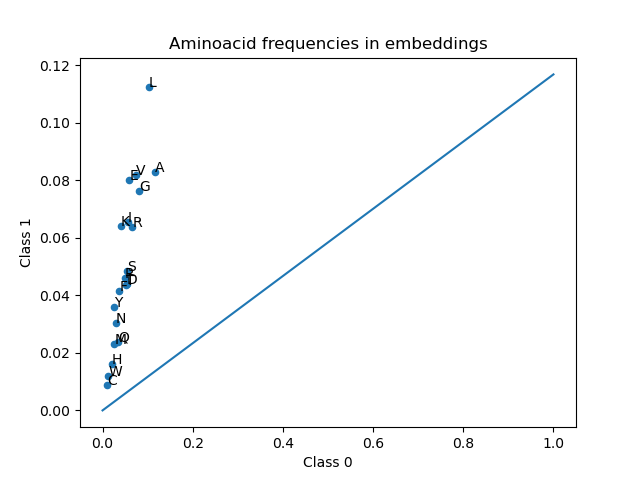
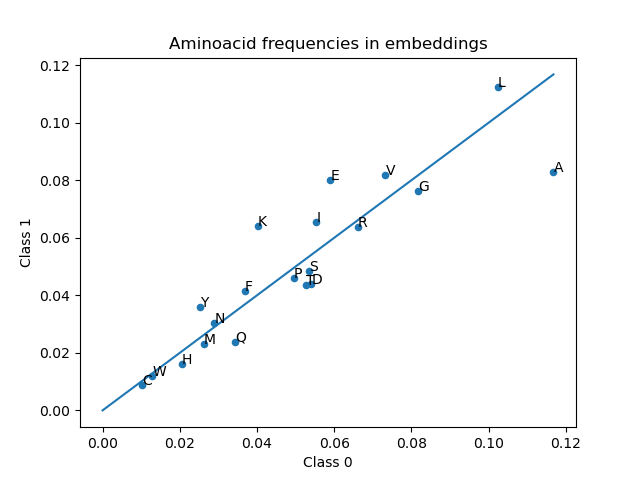
Added reference line from numpy array.

diff --git a/scripts/003/003_aminoacid_averages.py b/scripts/003/003_aminoacid_averages.py
@@ -46,6 +46,6 @@ max_val = max(class_means_df[0])
 if max(class_means_df[1]) > max_val:
     max_val = max(class_means_df[1])
 
-plt.plot(numpy.array[0, max_val])
+plt.plot(numpy.array([0, max_val]), numpy.array([0, max_val]))
 
 plt.savefig(sys.argv[2])
